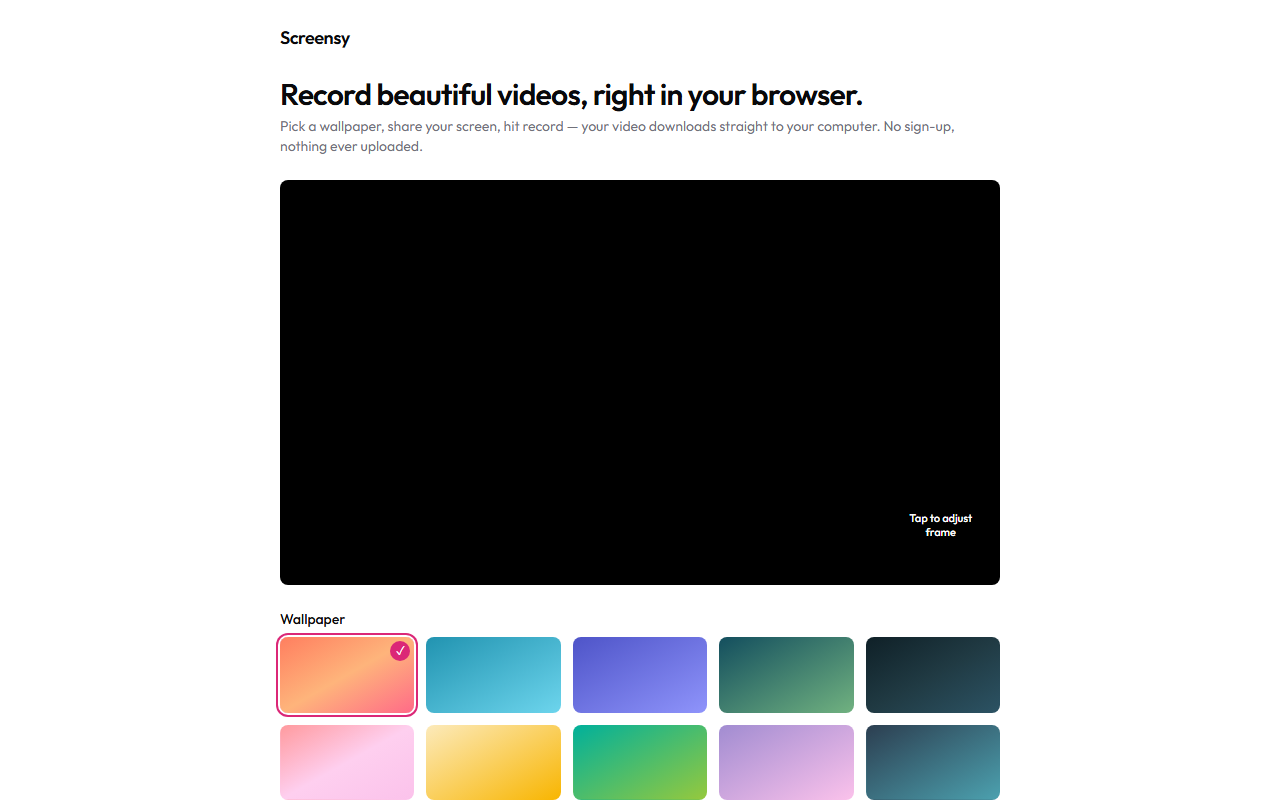
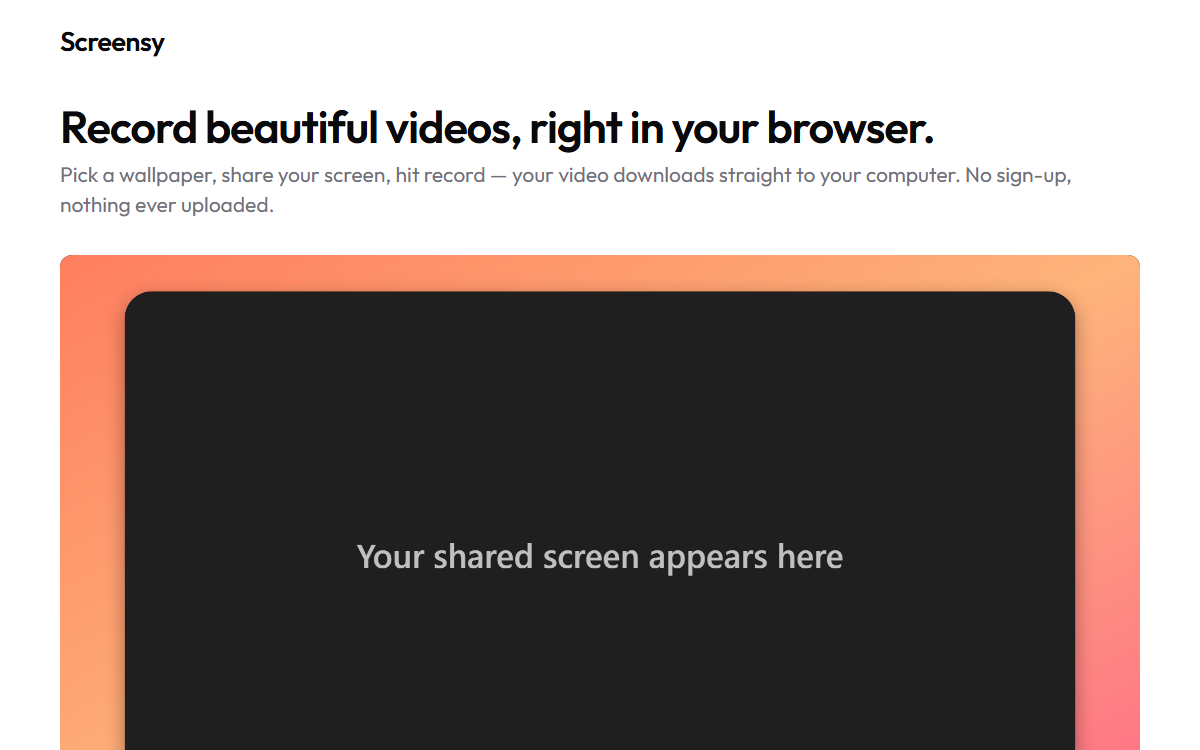
updated featured project to screensy

diff --git a/src/components/bento/ProjectCards.tsx b/src/components/bento/ProjectCards.tsx
@@ -14,13 +14,19 @@ export const FeaturedProjectCard = ({
   index: number;
   className?: string;
 }) => {
-  const { title, description, image, video, liveUrl, githubUrl } = project;
+  const { title, description, image, video, liveUrl, githubUrl, highlight } = project;
 
   return (
     <Card index={index} className={`flex flex-col ${className}`}>
       <p className="text-xs font-medium uppercase tracking-wider text-subtle">Featured project</p>
       <h2 className="mt-1 text-lg leading-snug text-foreground">{title}</h2>
       <p className="mt-1 line-clamp-2 text-sm leading-relaxed text-muted-foreground">{description}</p>
+      {highlight ? (
+        <p className="mt-3 inline-flex w-fit items-center gap-2 rounded-lg bg-pill px-2.5 py-1 text-xs font-medium text-foreground">
+          <span className="h-1.5 w-1.5 rounded-full bg-emerald-500" aria-hidden="true" />
+          {highlight}
+        </p>
+      ) : null}
 
       <div className="mt-5 overflow-hidden rounded-xl bg-gradient-to-br from-rose-200 via-orange-100 to-violet-200 p-3 dark:from-rose-300/80 dark:via-orange-200/70 dark:to-violet-300/80">
         <div className="relative aspect-[16/10] overflow-hidden rounded-lg bg-black shadow-lg">

diff --git a/src/data/projects.ts b/src/data/projects.ts
@@ -1,7 +1,7 @@
 import { getRepoDescriptions, repoPreviewImage, repoUrl } from "./github";
 
 // Descriptions come from GitHub (repo description); only what GitHub doesn't know lives here.
-// Order = display order. The first project is featured on its own card.
+// Order = display order in the list. The project marked `featured` also gets its own card.
 export interface PortfolioProject {
   repo: string; // GitHub repo name
   title: string;
@@ -12,6 +12,9 @@ export interface PortfolioProject {
   image?: string;
   // Optional ".mp4" / ".webm" in /public, played silently on the featured card.
   video?: string;
+  featured?: boolean;
+  // One-line traction stat shown on the featured card.
+  highlight?: string;
 }
 
 export const projects: PortfolioProject[] = [
@@ -51,6 +54,8 @@ export const projects: PortfolioProject[] = [
   {
     repo: "screensy",
     image: "/projects/screensy.png",
+    featured: true,
+    highlight: "150+ demos shipped with it, and people are using it",
     title: "Screensy",
     description:
       "Browser-based screen recorder compositing screen, face cam and wallpaper client-side. Video is never uploaded.",

diff --git a/src/app/page.tsx b/src/app/page.tsx
@@ -21,7 +21,7 @@ export const revalidate = 21600;
 //   tweets (3)                     contact (2) | linkedin + x
 export default async function Page() {
   const [projects, blogs] = await Promise.all([getProjects(), getMediumBlogs()]);
-  const [featured] = projects;
+  const featured = projects.find((project) => project.featured) ?? projects[0];
   const blogCovers = getHomepageBlogs(blogs, 3);
 
   return (
